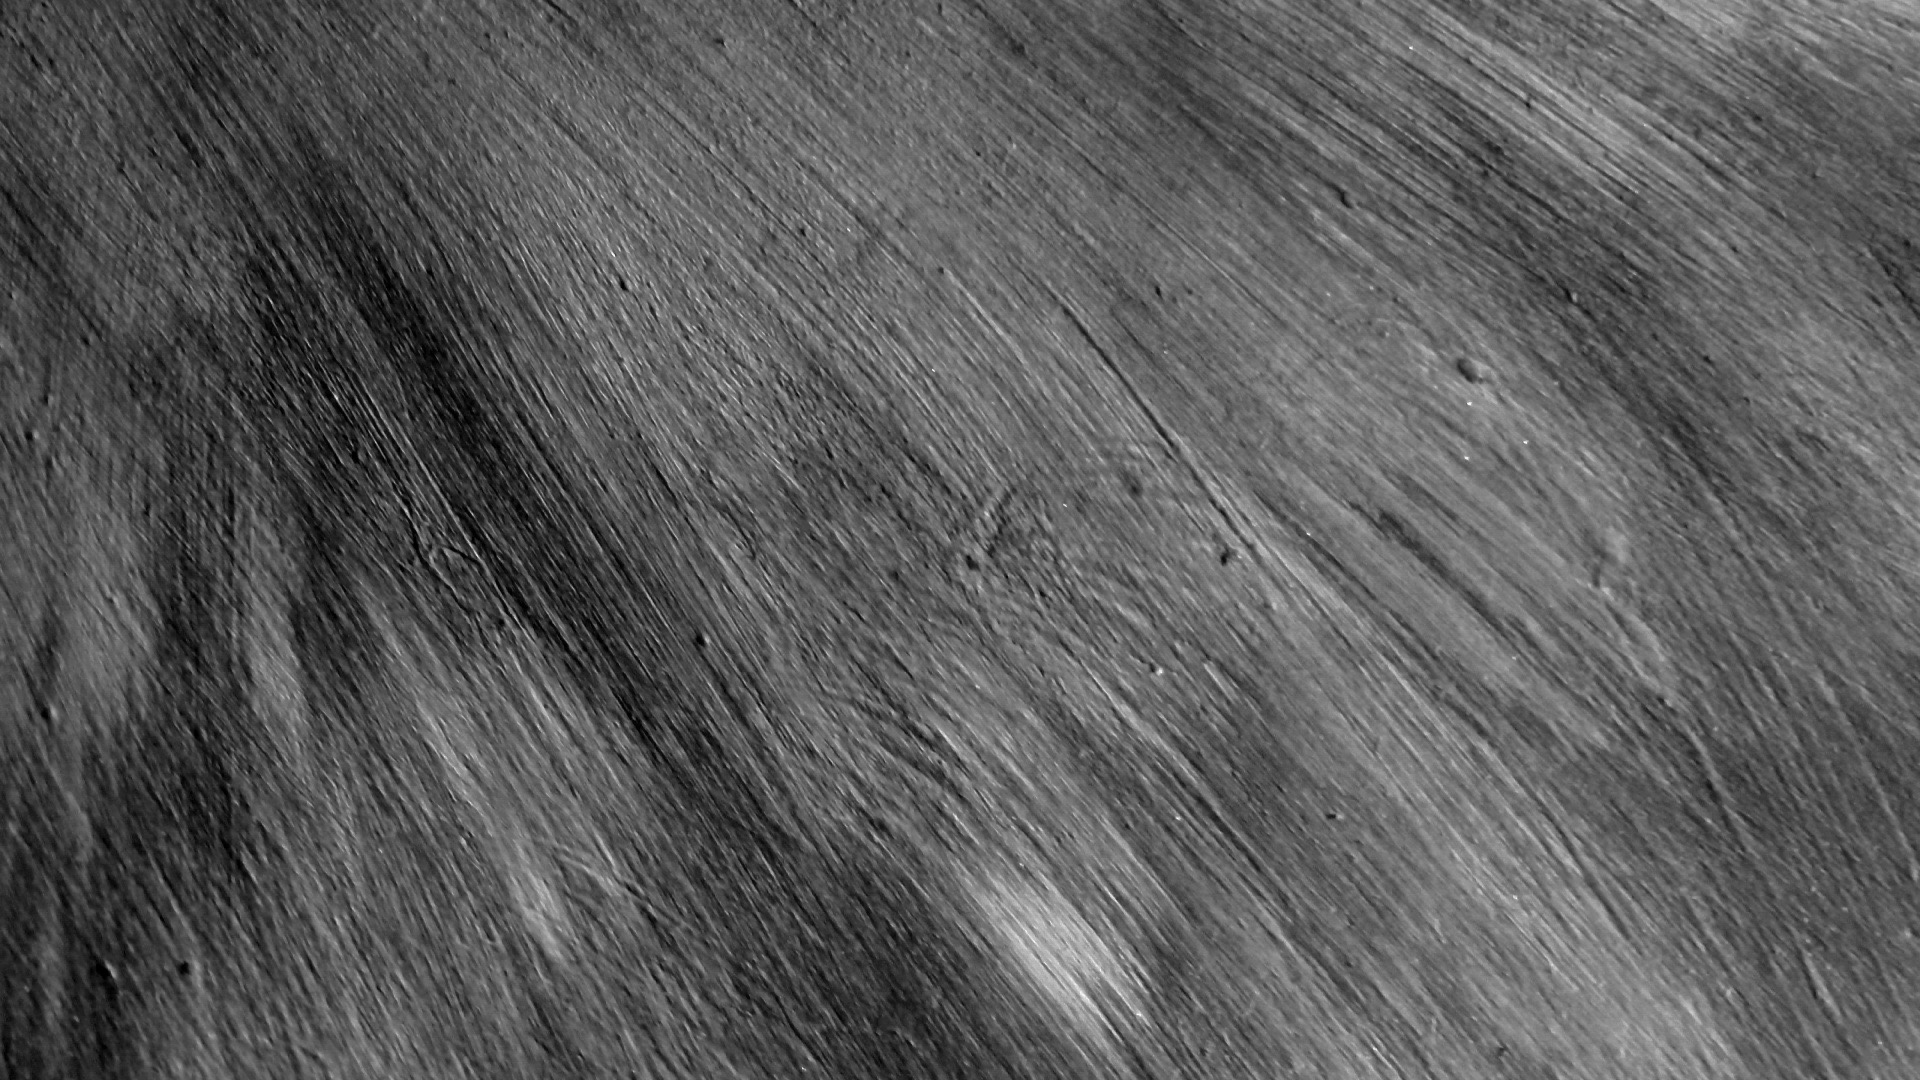
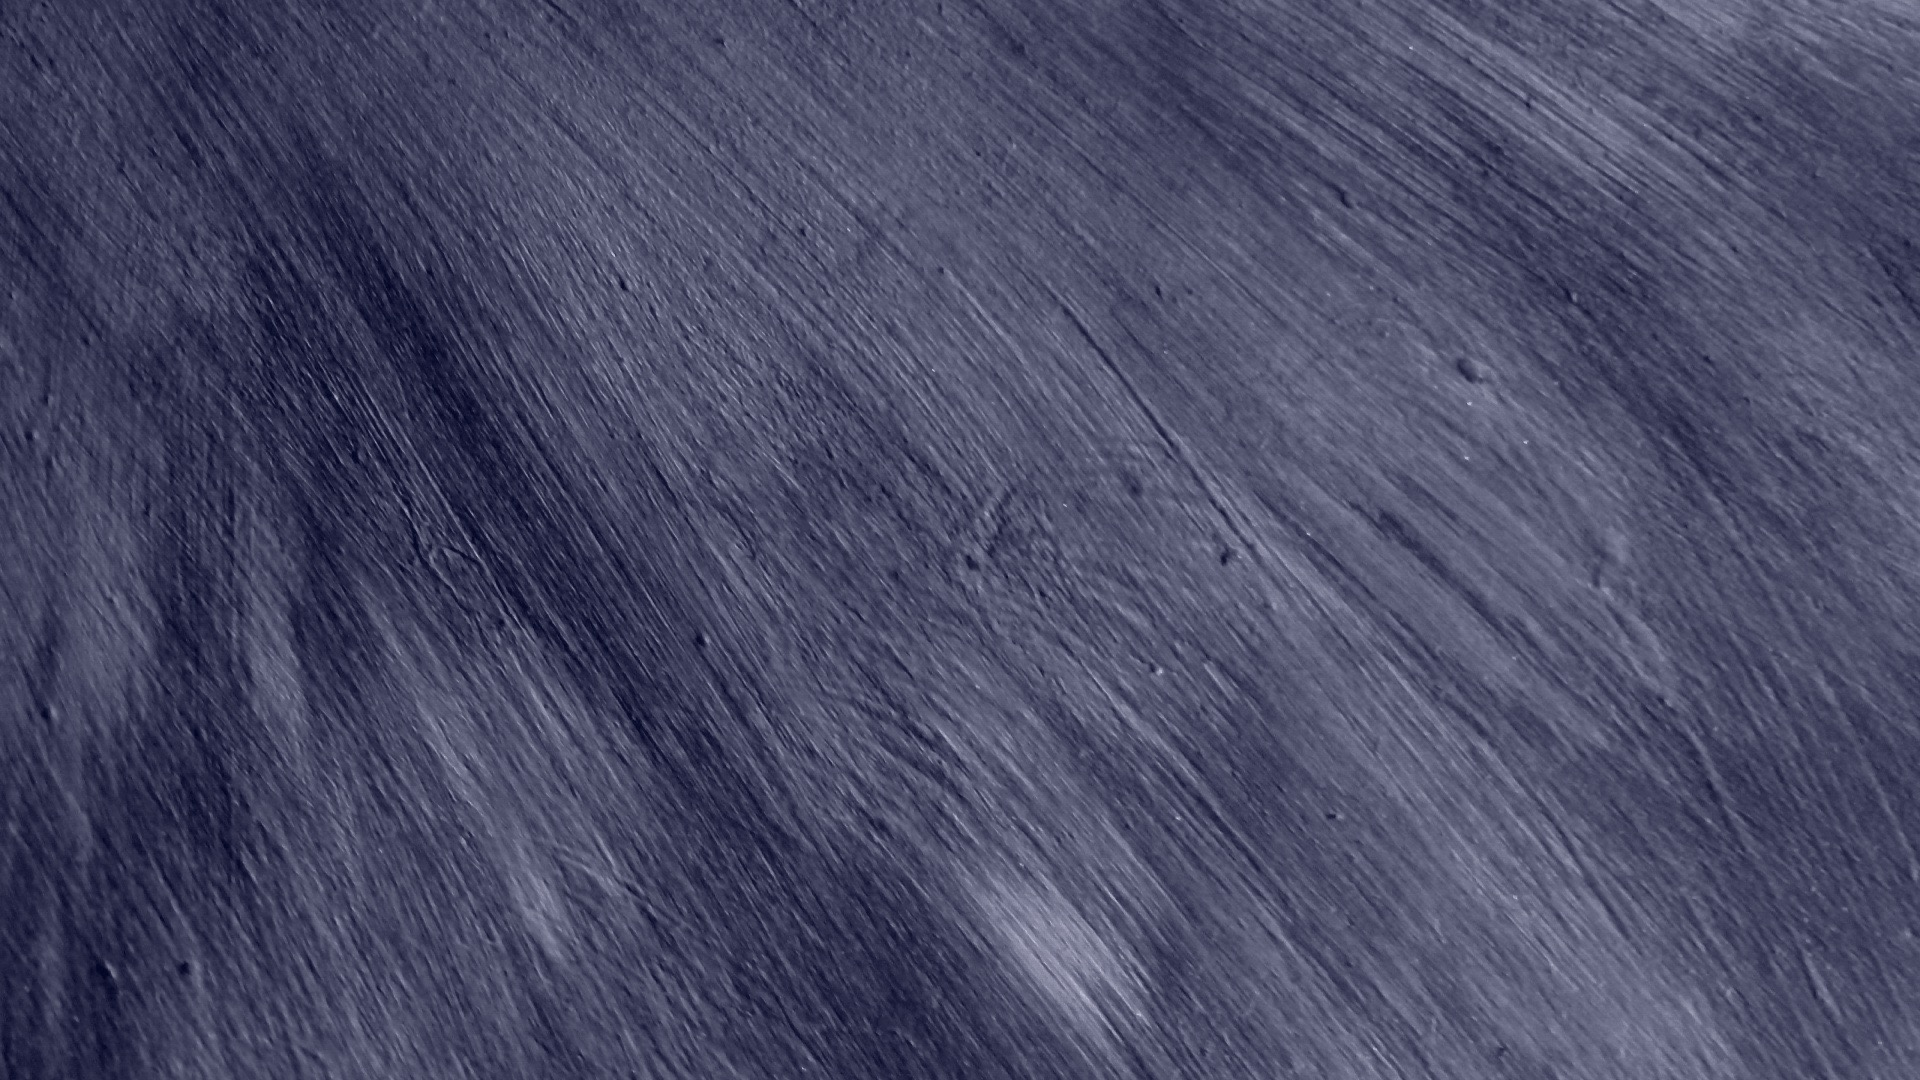
New Hero IMG

diff --git a/stylesheets/konjoianedu.css b/stylesheets/konjoianedu.css
@@ -258,7 +258,7 @@ h6 {
 }
 
 .hero {
-    background: url(https://res.cloudinary.com/konjoian-education-center/image/upload/v1480693348/black-grain_b00pad.jpg) center;
+    background: url(../images/backgrounds/blue-fine-grain-background-1449181248bk2.jpg) center;
     background-size: cover;
     height: 500px;
     width: 100%;
